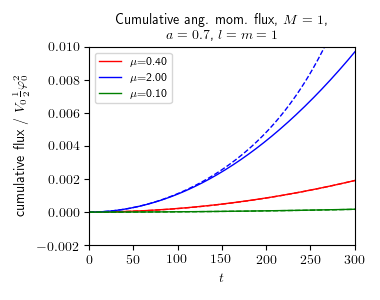
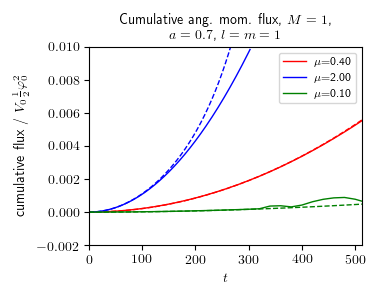
new plots

diff --git a/Analysis/scripts/plot_ang_mom_flux_compare_mu.py b/Analysis/scripts/plot_ang_mom_flux_compare_mu.py
@@ -185,7 +185,7 @@ def plot_graph():
 				ax1.plot(dd.tang_mom,dd.dang_mom,colours[i]+"-.", label="_rate of change in ang_mom $R_+<R<${:.1f} ".format(R_max)+label_, linewidth=1)
 		i = i + 1
 	ax1.set_xlabel("$t$", fontsize=label_size)
-	ax1.set_xlim((0, 300))
+	ax1.set_xlim((0, 512))
 	ax1.set_ylim((-0.002, 0.01))
 	if cumulative:
 		ax1.set_ylabel("cumulative flux / $V_0 \\frac{1}{2} \\varphi^2_0$")

diff --git a/Analysis/scripts/plot_mass_flux_compare_mu.py b/Analysis/scripts/plot_mass_flux_compare_mu.py
@@ -213,7 +213,7 @@ def plot_graph():
 				ax1.plot(dd.tmass,dd.dmass,colours[i]+"-.", label="_rate of change in mass $R_+<R<${:.1f} ".format(R_max)+label_, linewidth=1)
 		i = i + 1
 	ax1.set_xlabel("$t$", fontsize=label_size)
-	ax1.set_xlim((0, 300))
+	ax1.set_xlim((0, 512))
 	ax1.set_ylim((-0.001, 0.005))
 	if cumulative:
 		ax1.set_ylabel("cumulative flux / $V_0 \\frac{1}{2} \\varphi^2_0$")
